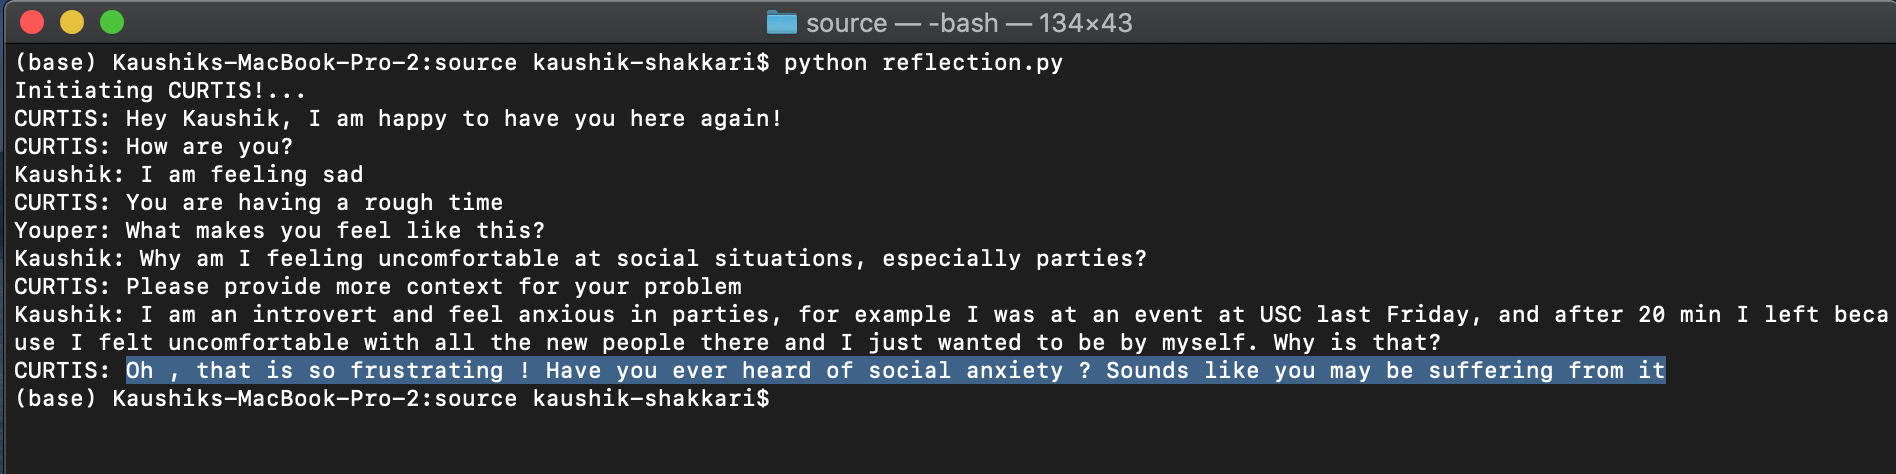
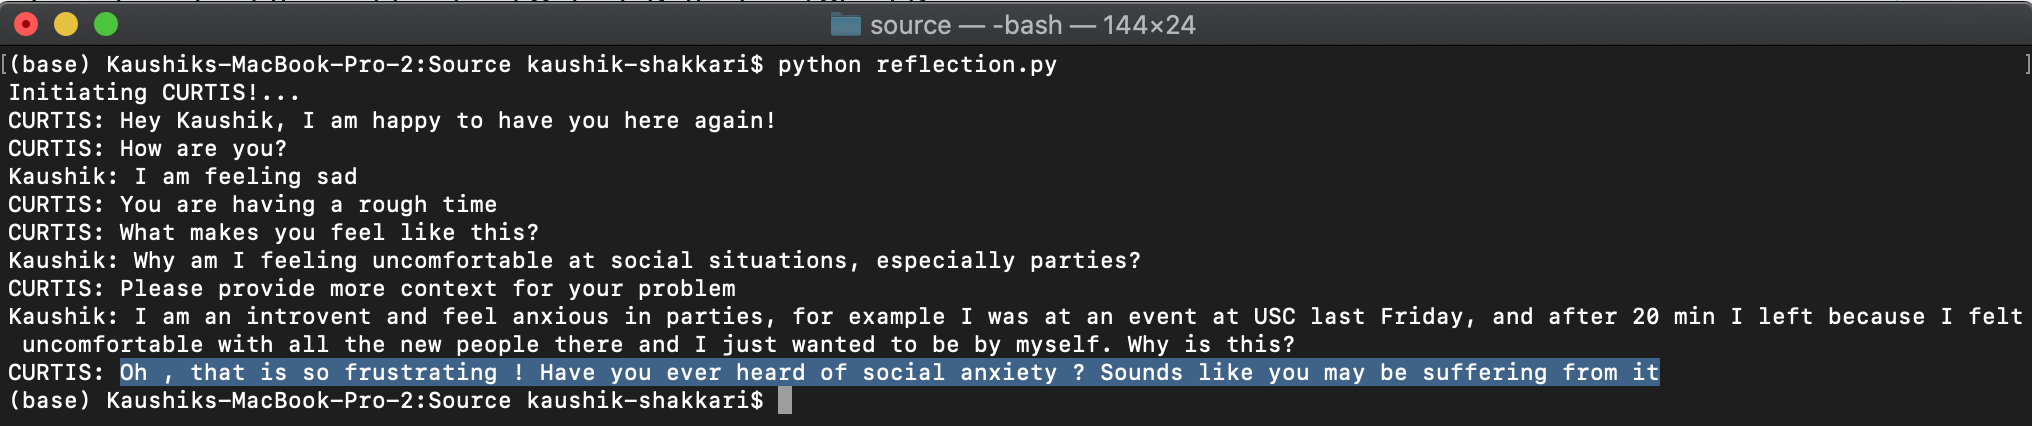
changed source

Changed region(s): [[0.0, 0.0, 1.0, 1.0]]

diff --git a/source/reflection.py b/source/reflection.py
@@ -20,7 +20,7 @@ def main():
     model.eval()
     print ("CURTIS: Hey Kaushik, I am happy to have you here again!")
     _ = input("CURTIS: How are you?\nKaushik: ")
-    user_question = input("CURTIS: You are having a rough time \nYouper: What makes you feel like this?\nKaushik: ")
+    user_question = input("CURTIS: You are having a rough time \nCURTIS: What makes you feel like this?\nKaushik: ")
     user_question_context = input("CURTIS: Please provide more context for your problem\nKaushik: ")
     user_vec = get_contextual_vector(model, tokenizer, user_question, user_question_context)
     for i in range(df.shape[0]):
